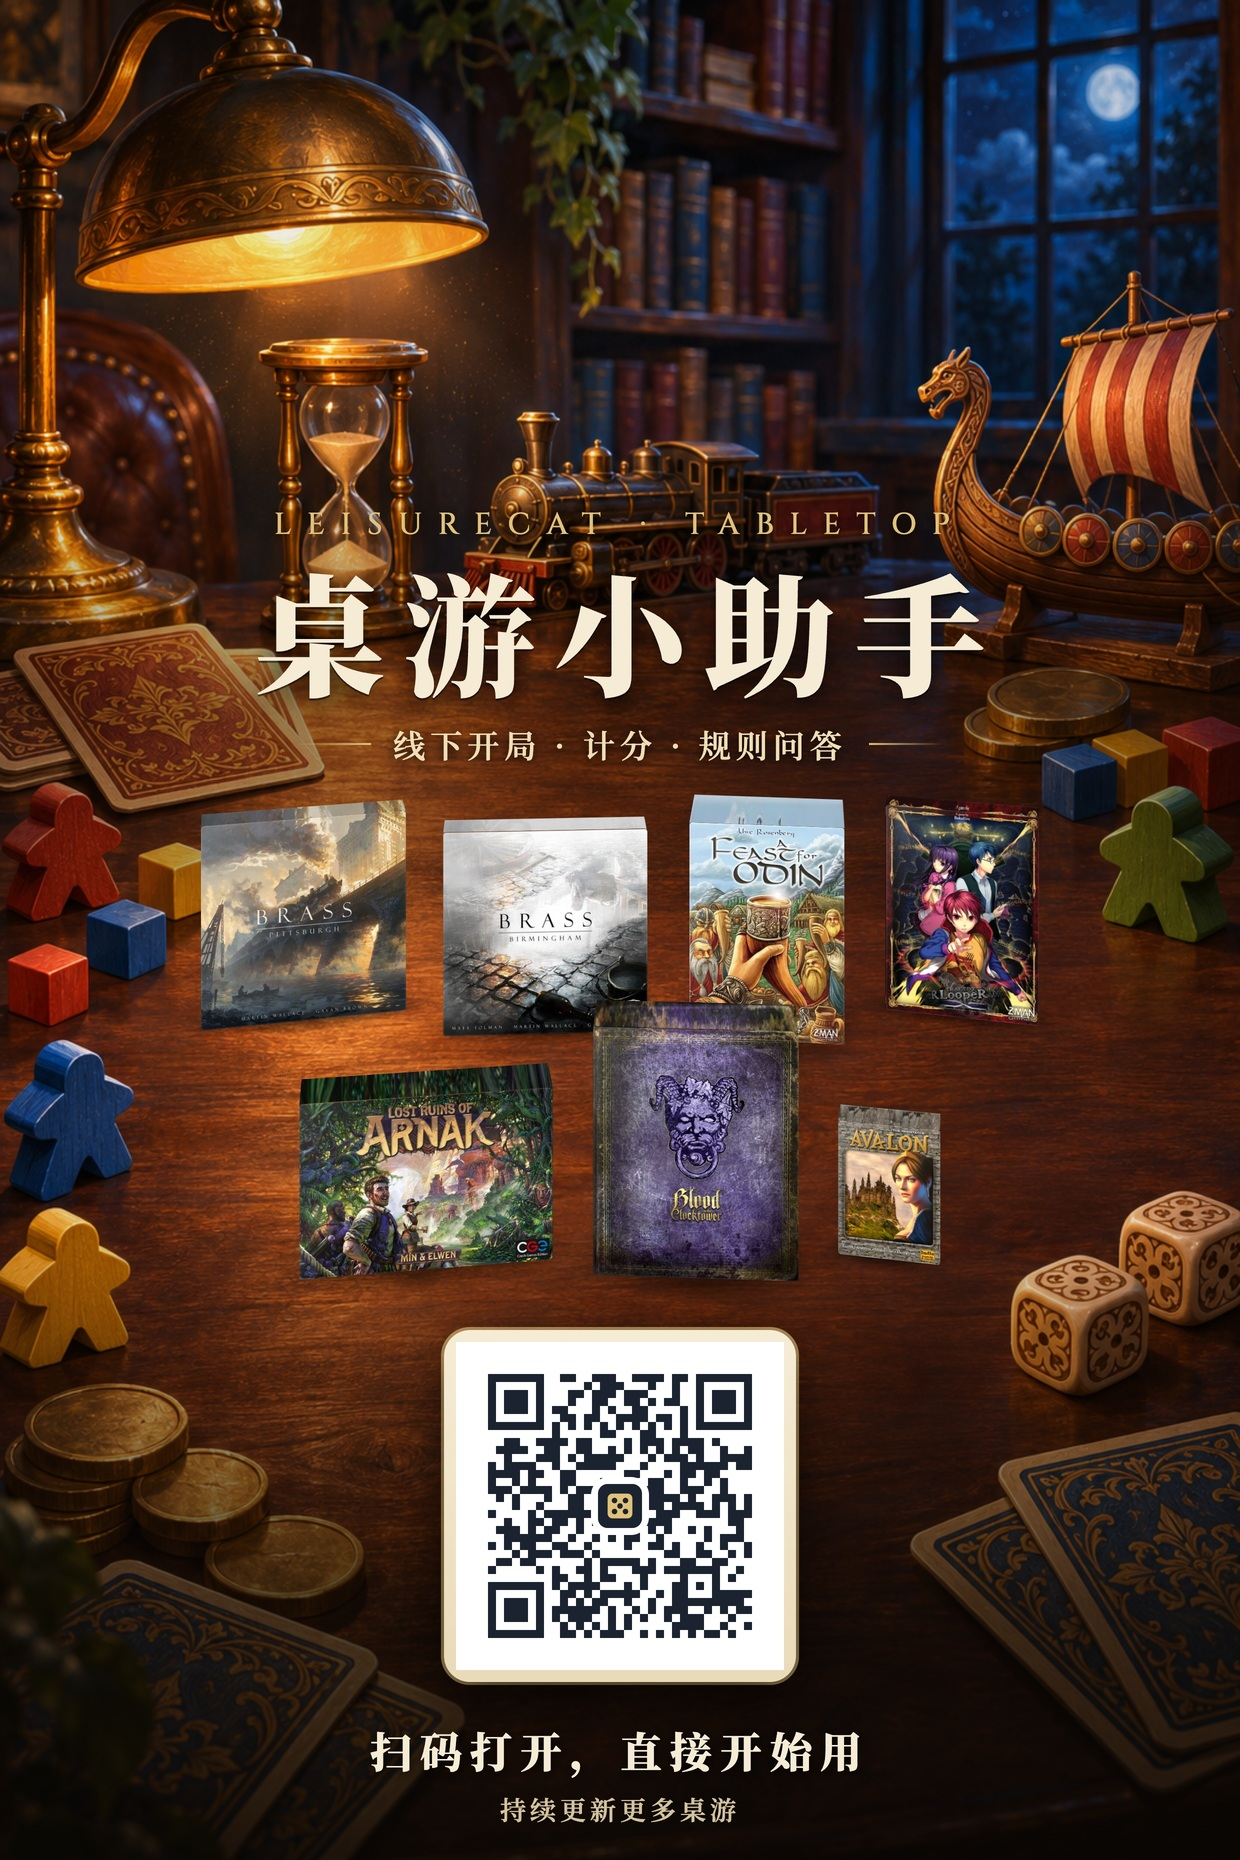
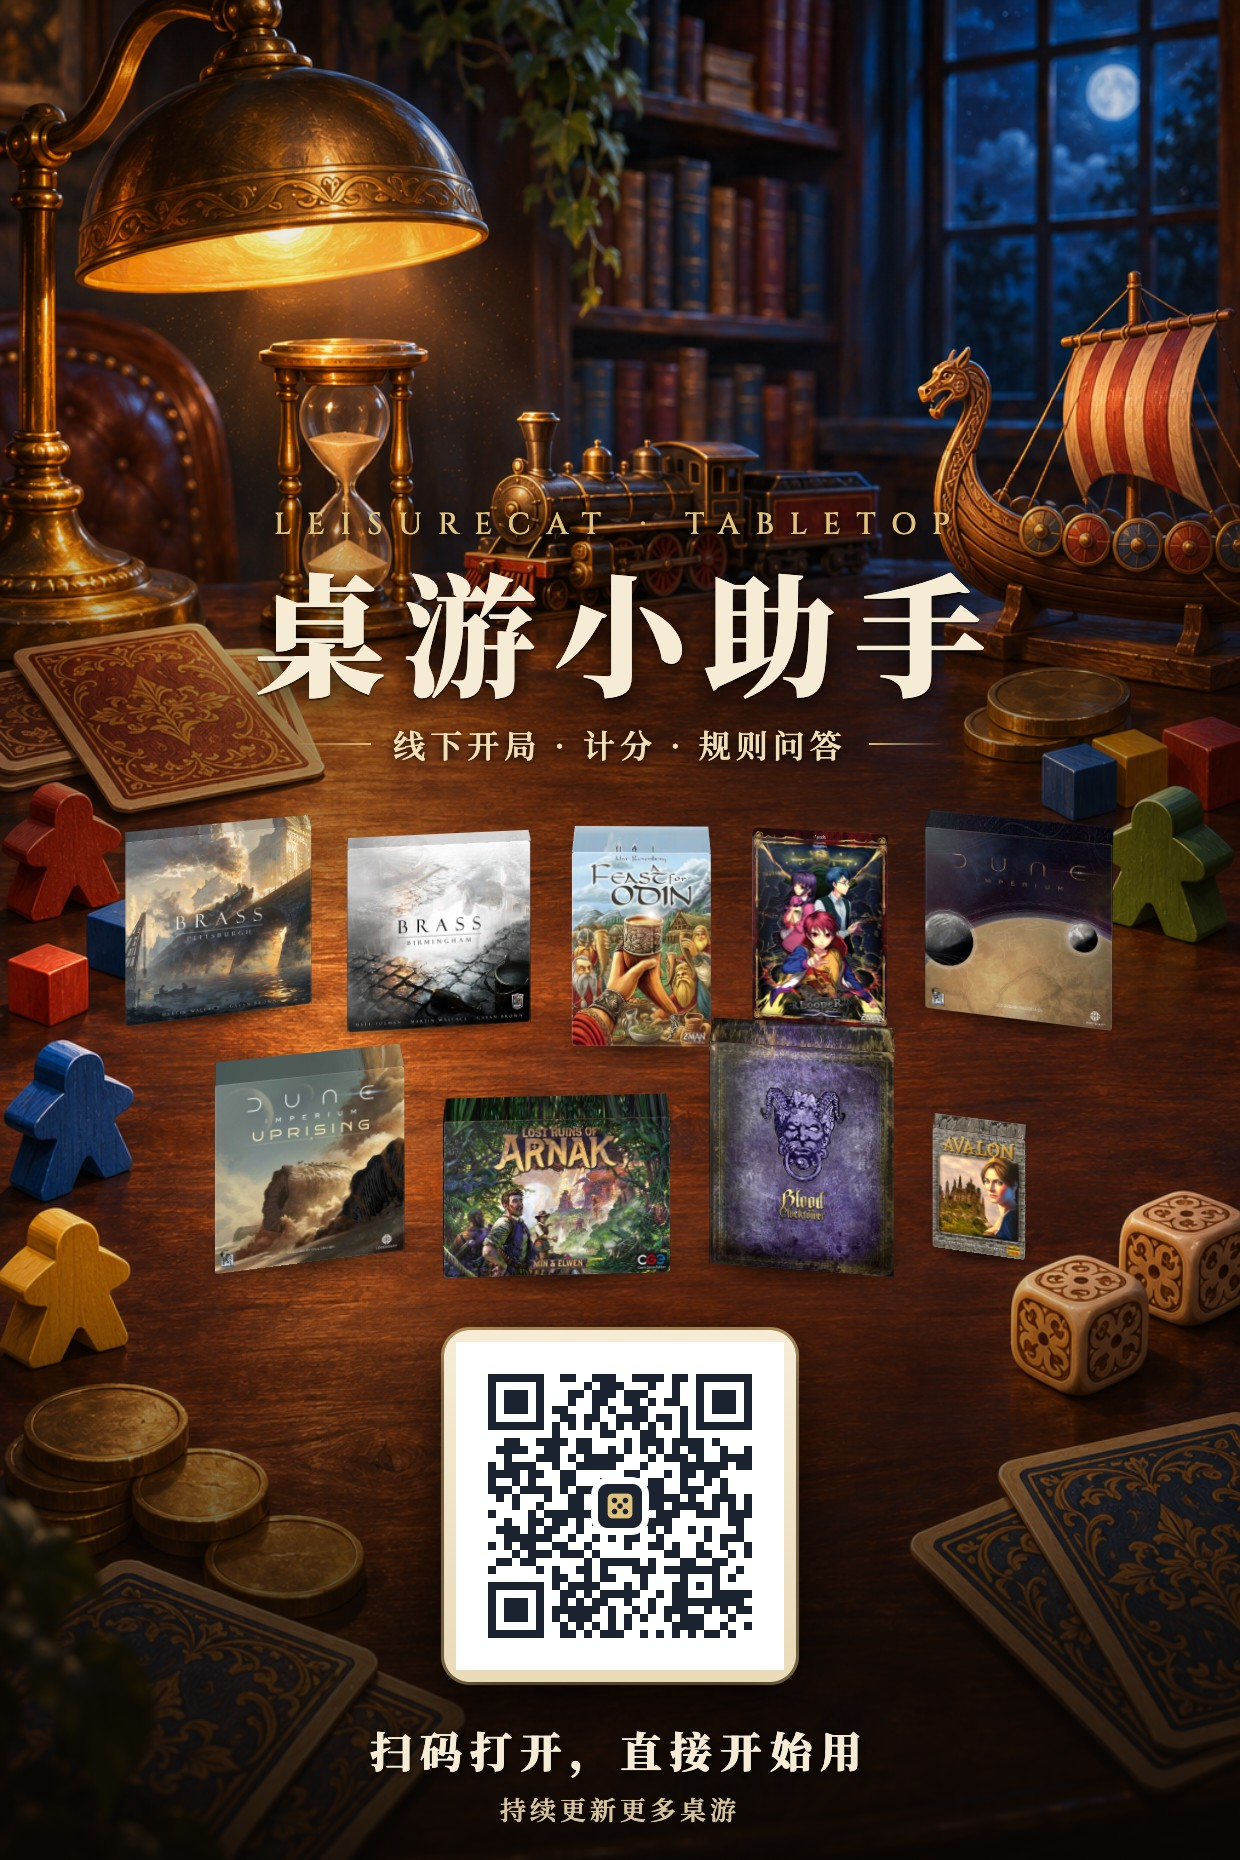
海报 v2 重新导出：加入两个沙丘盒子；两排时限制盒高，避免上下排压住

diff --git a/海报/源文件/poster_v2.html b/海报/源文件/poster_v2.html
@@ -72,7 +72,8 @@ window.posterReady = (async () => {
     img.src = `../../public/img/box-${game.key}.jpg`;
     await img.decode();
   }
-  const unit = Math.min(7.2, 245 / Math.max(...games.map(g => g.box[1])),
+  // two rows sit 235px apart: cap the tallest box below that so its top face clears the row above
+  const unit = Math.min(7.2, (rowCount === 1 ? 245 : 220) / Math.max(...games.map(g => g.box[1])),
     ...rows.map(row => (1020 - (row.length - 1) * 28) / row.reduce((s,g) => s + g.box[0] + g.box[2] * .2, 0)));
   rows.forEach((row, ri) => {
     const widths = row.map(g => (g.box[0] + g.box[2] * .2) * unit);
